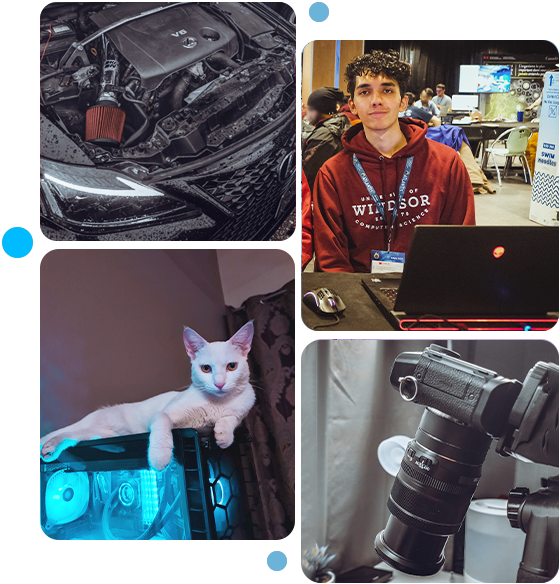
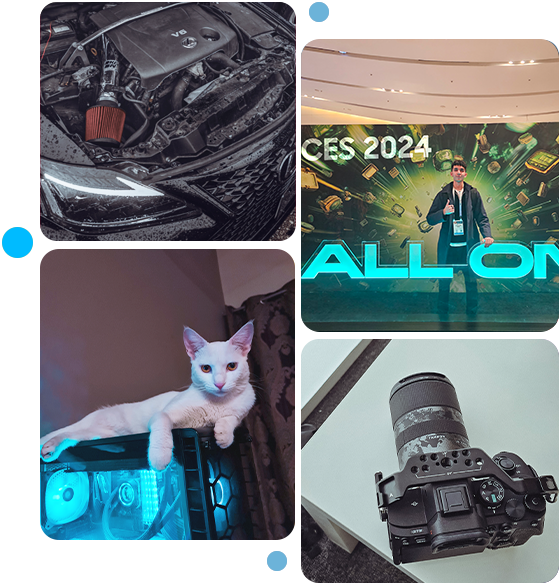
feat: add content

diff --git a/src/components/Gallery.js b/src/components/Gallery.js
@@ -42,6 +42,21 @@ const Gallery = () => {
             <div>
               <Image
                 className="gallery-img"
+                src="/static/img/gallery/ces2024.jpg"
+                width={452.5}
+                height={603}
+                title="Me at CES 2024 in Las Vegas."
+                alt="Me at CES 2024 in Las Vegas."
+              />
+            </div>
+            <div className="media-body gallery-caption">
+              <p>CES 2024 tech convention at the LVCC in Las Vegas.</p>
+            </div>
+          </SwiperSlide>
+          <SwiperSlide className="gallery media d-flex">
+            <div>
+              <Image
+                className="gallery-img"
                 src="/static/img/gallery/spaceapps.jpeg"
                 width={452.5}
                 height={603}
@@ -117,21 +132,6 @@ const Gallery = () => {
             </div>
             <div className="media-body gallery-caption">
               <p>Desk Setup '23.</p>
-            </div>
-          </SwiperSlide>
-          <SwiperSlide className="gallery media d-flex">
-            <div>
-              <Image
-                className="gallery-img"
-                src="/static/img/gallery/setup2.jpg"
-                width={452.5}
-                height={603}
-                title="PCMR."
-                alt="A close-up picture of PC setup."
-              />
-            </div>
-            <div className="media-body gallery-caption">
-              <p>PCMR.</p>
             </div>
           </SwiperSlide>
           <div className="swiper-button-prev"></div>

diff --git a/src/components/About.js b/src/components/About.js
@@ -30,16 +30,14 @@ const About = () => {
                 <h3>About me.</h3>
               </div>
               <div className="about-text">
-                <h3>
-                  Tech Enthusiast who loves to turn ideas into experiences
-                  through code.{" "}
-                </h3>
+                <h3>My journey in Software Engineering & Creative Design.</h3>
                 <p>
                   After moving to Canada in 2021, I decided to pursue a career
                   in Computer Science at the University of Windsor. I did my
-                  foundations in C and Java. Aside from Software Engineering, I
-                  have a strong passion for UI/UX design, fueled by my over 5
-                  years of experience in Graphics Design and Content Creation.
+                  foundations in C and Java. I have a strong passion for
+                  Engineering good software and UI/UX design, fueled by my over
+                  5 years of experience in Graphics Design and tech Content
+                  Creation.
                 </p>
                 <div className="about-icons justify-content-center social-icons">
                   <a href="https://github.com/Afrokk" target="_blank">
